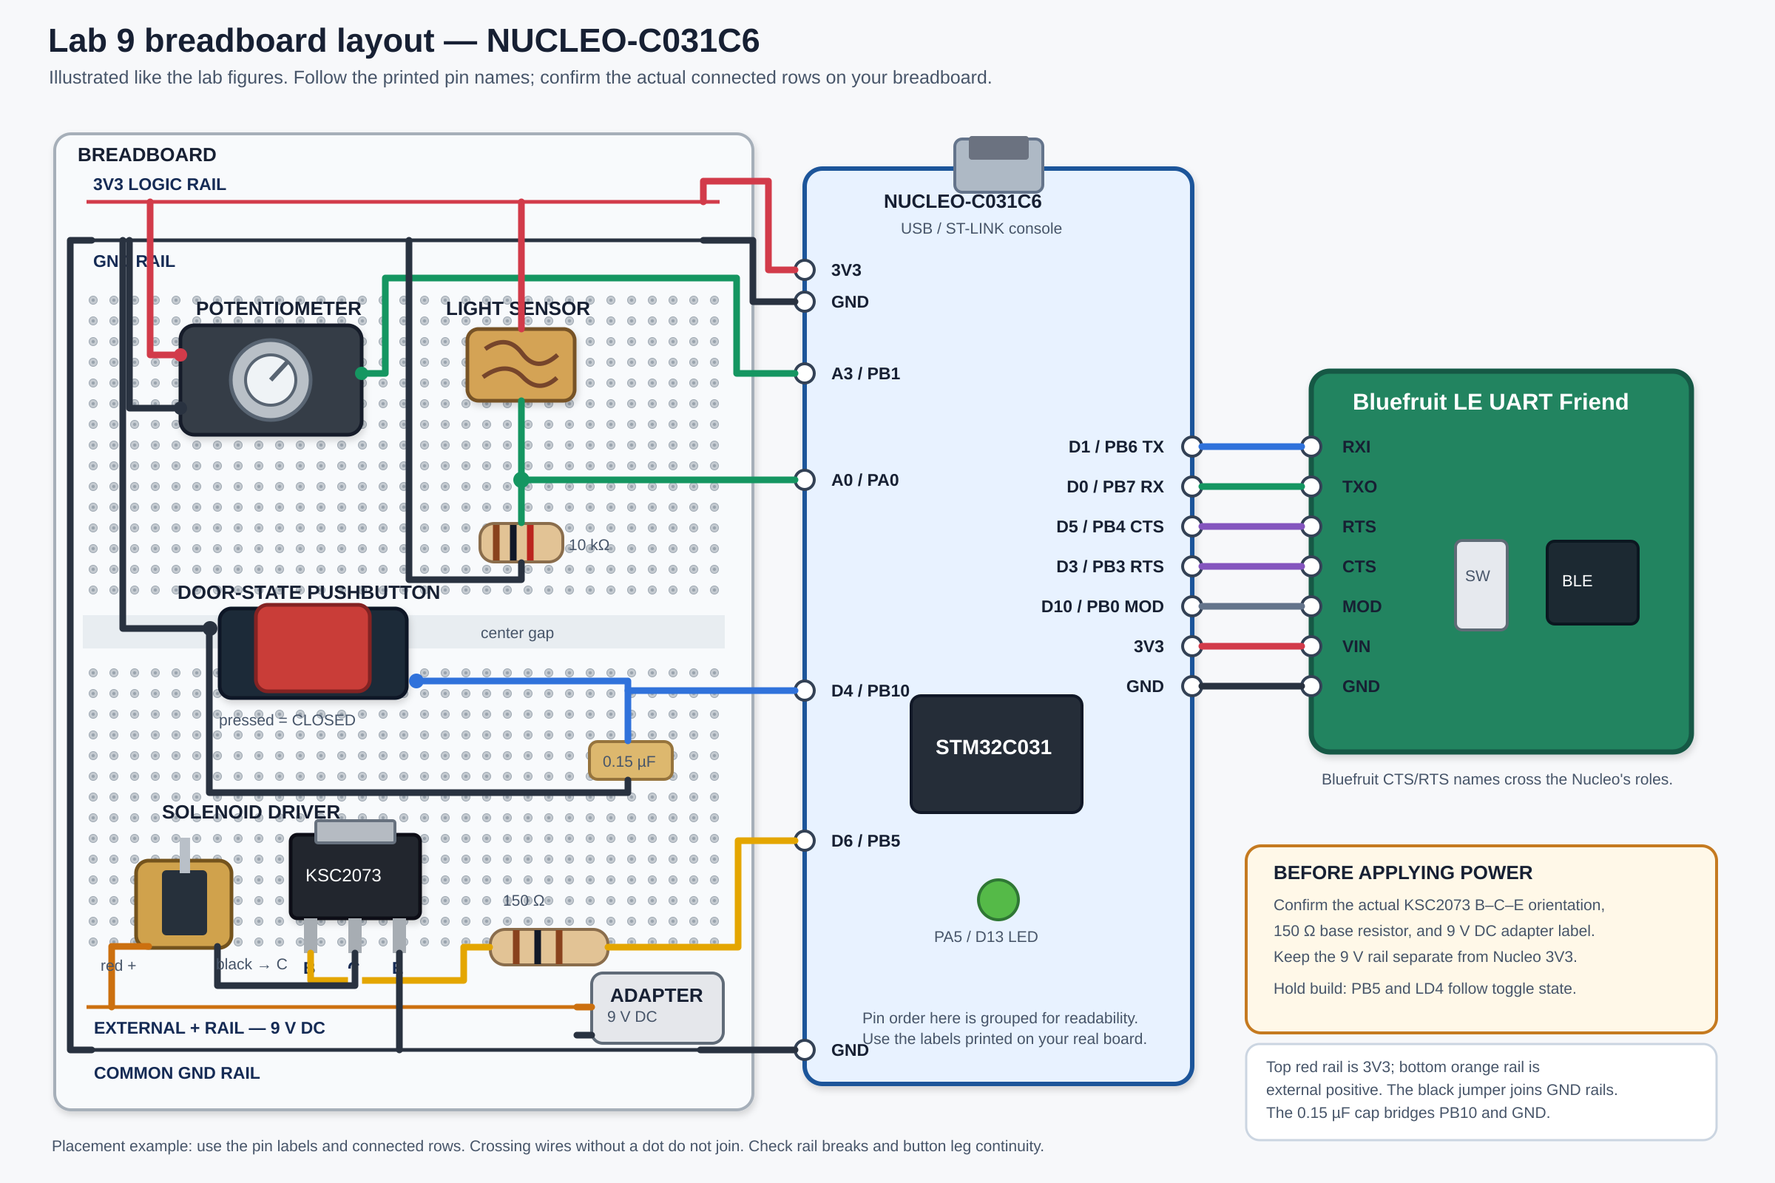
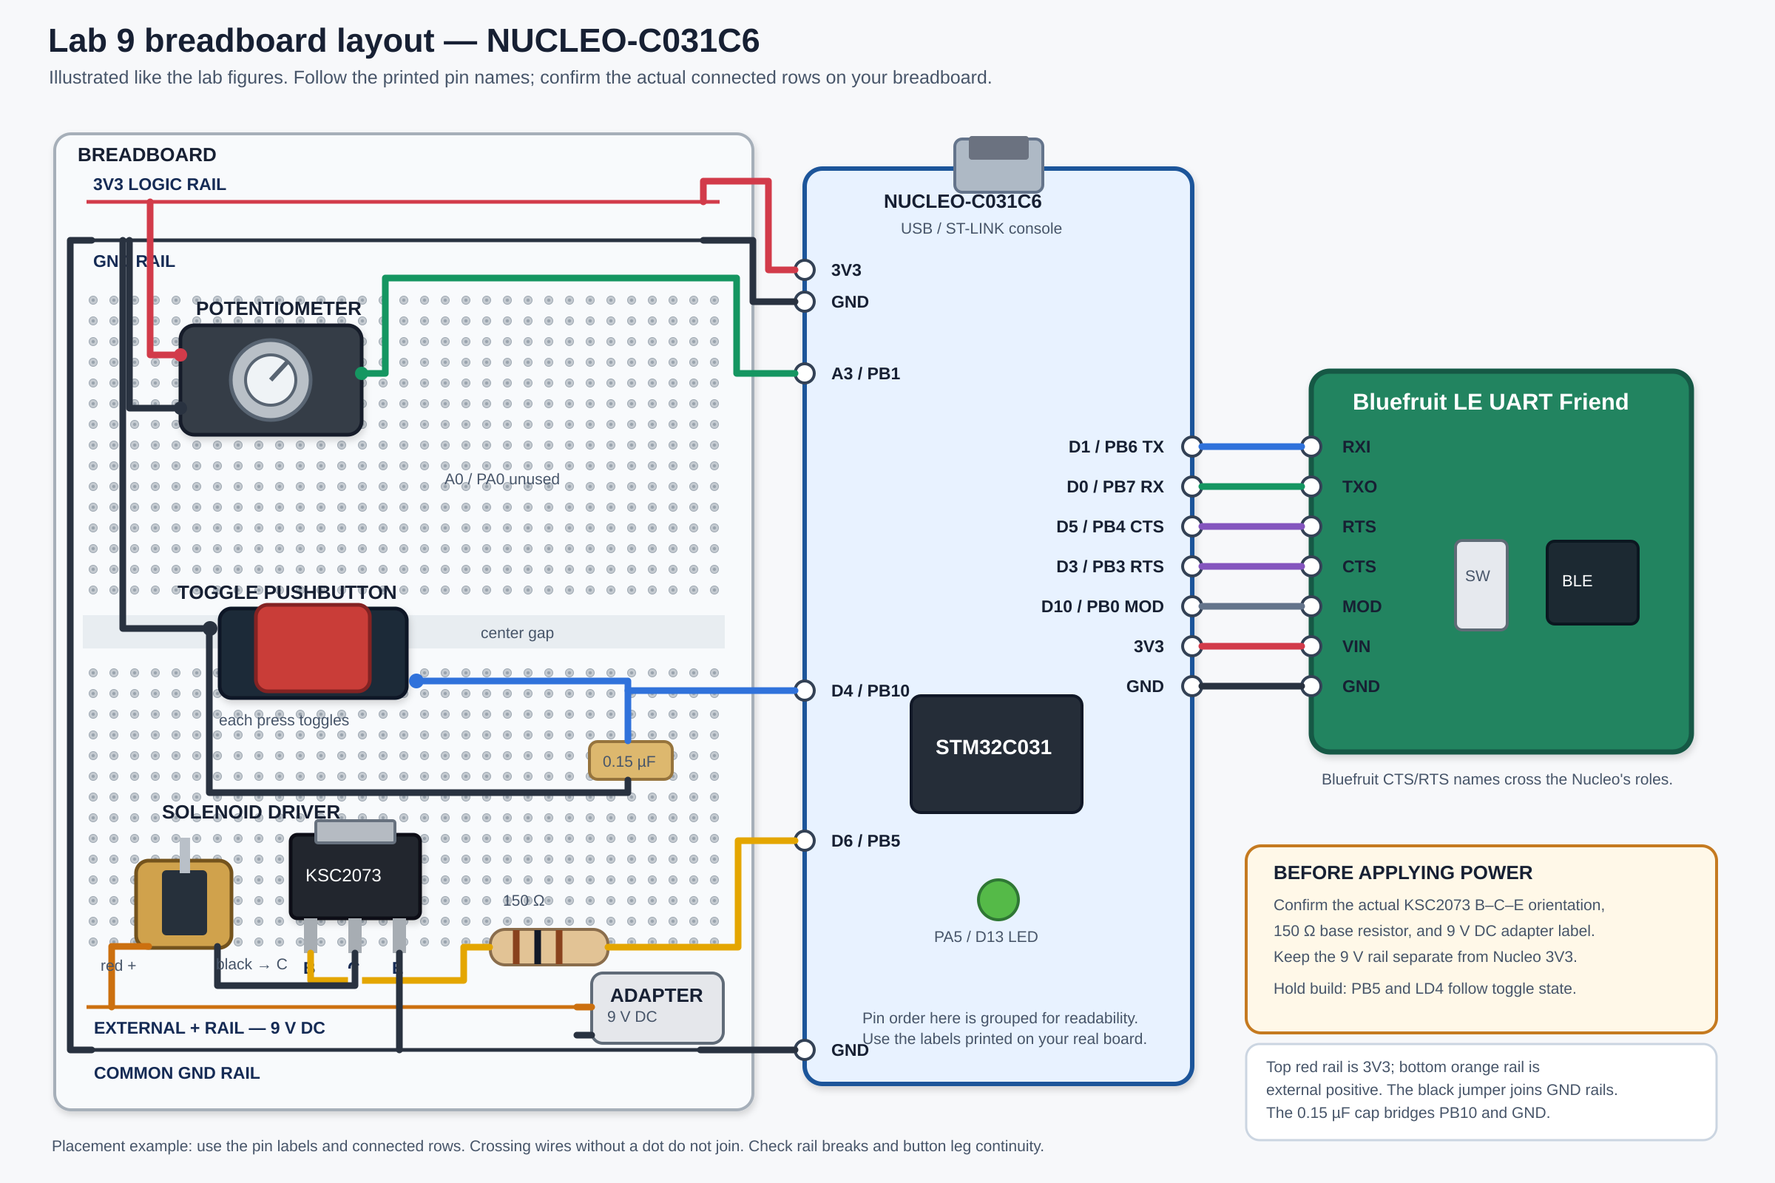
Remove photoresistor from Lab9 prototype

Changed region(s): [[0.2188, 0.1875, 0.4688, 0.5], [0.0938, 0.4688, 0.2188, 0.5312], [0.125, 0.5938, 0.1875, 0.625]]

diff --git a/tests/test_safe_logic.c b/tests/test_safe_logic.c
@@ -8,31 +8,30 @@ int main(void) {
     assert(!state.unlock_requested);
 
     /* Inputs already held or high at boot do not request an unlock. */
-    SampleSafe(&state, 20, true, 4095, 100);
-    SampleSafe(&state, 60, true, 4095, 100);
-    assert(!state.unlock_requested);
-    assert(state.light == 100);
-
-    SampleSafe(&state, 80, false, 4095, 100);
-    SampleSafe(&state, 120, false, 4095, 100);
-    SampleSafe(&state, 140, true, 4095, 100);
-    SampleSafe(&state, 180, true, 4095, 100);
-    assert(state.unlock_requested);
-    SampleSafe(&state, 220, true, 4095, 100);
-    assert(state.unlock_requested);
-    SampleSafe(&state, 240, false, 4095, 100);
-    SampleSafe(&state, 280, false, 4095, 100);
-    SampleSafe(&state, 300, true, 4095, 100);
-    SampleSafe(&state, 340, true, 4095, 100);
+    SampleSafe(&state, 20, true, 4095);
+    SampleSafe(&state, 60, true, 4095);
     assert(!state.unlock_requested);
 
-    SampleSafe(&state, 360, true, 0, 100);
-    SampleSafe(&state, 380, true, 4095, 100);
+    SampleSafe(&state, 80, false, 4095);
+    SampleSafe(&state, 120, false, 4095);
+    SampleSafe(&state, 140, true, 4095);
+    SampleSafe(&state, 180, true, 4095);
     assert(state.unlock_requested);
-    SampleSafe(&state, 400, true, 4095, 100);
+    SampleSafe(&state, 220, true, 4095);
     assert(state.unlock_requested);
-    SampleSafe(&state, 420, true, 0, 100);
-    SampleSafe(&state, 440, true, 4095, 100);
+    SampleSafe(&state, 240, false, 4095);
+    SampleSafe(&state, 280, false, 4095);
+    SampleSafe(&state, 300, true, 4095);
+    SampleSafe(&state, 340, true, 4095);
+    assert(!state.unlock_requested);
+
+    SampleSafe(&state, 360, true, 0);
+    SampleSafe(&state, 380, true, 4095);
+    assert(state.unlock_requested);
+    SampleSafe(&state, 400, true, 4095);
+    assert(state.unlock_requested);
+    SampleSafe(&state, 420, true, 0);
+    SampleSafe(&state, 440, true, 4095);
     assert(!state.unlock_requested);
 
     assert(ProcessSafeCommand(&state, 'U'));
@@ -45,11 +44,11 @@ int main(void) {
     assert(!ProcessSafeCommand(&state, '?'));
 
     /* A pot turn and button press in one sample produce one toggle. */
-    SampleSafe(&state, 460, false, 0, 100);
-    SampleSafe(&state, 500, false, 0, 100);
-    SampleSafe(&state, 520, true, 0, 100);
+    SampleSafe(&state, 460, false, 0);
+    SampleSafe(&state, 500, false, 0);
+    SampleSafe(&state, 520, true, 0);
     assert(!state.unlock_requested);
-    SampleSafe(&state, 560, true, 4095, 100);
+    SampleSafe(&state, 560, true, 4095);
     assert(state.unlock_requested);
 
     LockSafe(&state);

diff --git a/Src/Lab9Prototype.c b/Src/Lab9Prototype.c
@@ -2,7 +2,6 @@
  * ENGS 28 Lab 9 breadboard prototype
  *
  * A3 / PB1: potentiometer wiper, ADC channel 18
- * A0 / PA0: light divider, ADC channel 0
  * D4 / PB10: active-low toggle pushbutton with pull-up
  * D6 / PB5: solenoid transistor drive
  * D13 / PA5: on-board user LED
@@ -22,7 +21,6 @@
 #include "SafeLogic.h"
 
 #define POT_CHANNEL 18U
-#define LIGHT_CHANNEL 0U
 #define BUTTON_BITNUM 10U
 #define BUTTON_BITMASK (1U << BUTTON_BITNUM)
 #define SOLENOID_BITNUM 5U
@@ -68,7 +66,7 @@ static void ApplyOutputs(const SafeState *state) {
 
 static int ReadADC(unsigned int channel) {
     adc_setChannel(channel);
-    /* Lab 8 sensor check discarded the first reading after channel change. */
+    /* Lab 8 sensor check discarded the first ADC reading. */
     if (adc_getValue() < 0) {
         return -1;
     }
@@ -77,10 +75,9 @@ static int ReadADC(unsigned int channel) {
 
 static void SendStatus(const SafeState *state) {
     char line[STATUS_LINE_CAPACITY] = {0};
-    (void)snprintf(line, sizeof(line), "POT=%u BUTTON=%s LIGHT=%u REQUEST=%s SOLENOID=%s\r\n",
+    (void)snprintf(line, sizeof(line), "POT=%u BUTTON=%s REQUEST=%s SOLENOID=%s\r\n",
                    (unsigned int)state->pot,
                    state->button_pressed ? "PRESSED" : "RELEASED",
-                   (unsigned int)state->light,
                    state->unlock_requested ? "UNLOCK" : "LOCK",
 #if SOLENOID_HOLD_ENABLED > 0U
                    state->unlock_requested ? "ON" : "OFF"
@@ -133,12 +130,11 @@ int main(void) {
         if ((uint32_t)(now - last_sample) >= SAMPLE_MS) {
             last_sample = now;
             int pot = ReadADC(POT_CHANNEL);
-            int light = ReadADC(LIGHT_CHANNEL);
-            if (pot < 0 || light < 0) {
+            if (pot < 0) {
                 LockSafe(&state);
             } else {
                 bool pressed = (GPIOB->IDR & BUTTON_BITMASK) == 0U;
-                SampleSafe(&state, now, pressed, (uint16_t)pot, (uint16_t)light);
+                SampleSafe(&state, now, pressed, (uint16_t)pot);
             }
             ApplyOutputs(&state);
         }

diff --git a/Library/ADC.c b/Library/ADC.c
@@ -68,11 +68,9 @@ void adc_setChannel(unsigned int chNum) {
 }
 
 void adc_init(void) {
-    // Turn on the GPIO and ADC clocks, then make A0, A1 and A3 analog inputs.
-    RCC->IOPENR = RCC->IOPENR | RCC_IOPENR_GPIOAEN | RCC_IOPENR_GPIOBEN;
+    // Turn on the GPIO and ADC clocks, then make A3 an analog input.
+    RCC->IOPENR = RCC->IOPENR | RCC_IOPENR_GPIOBEN;
     /* GPIO analog mode is 11 in each pin's two mode bits. */
-    GPIOA->MODER = GPIOA->MODER | GPIO_MODER_MODE0_Msk;
-    GPIOA->MODER = GPIOA->MODER | GPIO_MODER_MODE1_Msk;
     GPIOB->MODER = GPIOB->MODER | GPIO_MODER_MODE1_Msk;
     RCC->APBENR2 = RCC->APBENR2 | RCC_APBENR2_ADCEN;
 
@@ -94,7 +92,7 @@ void adc_init(void) {
     // Rearm the ADC after long gaps between one-second readings.
     ADC1->CFGR2 = ADC1->CFGR2 | ADC_CFGR2_LFTRIG;
     adc_setWidth(0);
-    adc_setChannel(0);
+    adc_setChannel(18);
     ADC1->ISR = ADC_ISR_ADRDY;
     ADC1->CR = ADC1->CR | ADC_CR_ADEN;
     if (!wait_for_set(&ADC1->ISR, ADC_ISR_ADRDY)) {

diff --git a/Library/ADC.h b/Library/ADC.h
@@ -1,11 +1,11 @@
 #ifndef LAB5_ADC_H
 #define LAB5_ADC_H
 
-/* Configures PA0/A0, PA1/A1 and PB1/A3 as analog inputs; starts at channel 0, 12 bits. */
+/* Configures PB1/A3 as an analog input; starts at channel 18, 12 bits. */
 void adc_init(void);
 
 /* Selects ADC channel 0..19 for the next conversion; invalid channels are ignored.
-   The caller configures any external GPIO other than PA0/PA1/PB1 as analog. */
+   The caller configures any external GPIO other than PB1 as analog. */
 void adc_setChannel(unsigned int chNum);
 
 /* Resolution codes: 0=12 bits, 1=10 bits, 2=8 bits, 3=6 bits.

diff --git a/Src/SafeLogic.h b/Src/SafeLogic.h
@@ -12,12 +12,10 @@ typedef struct {
     bool pot_armed;
     uint32_t button_changed_at;
     uint16_t pot;
-    uint16_t light;
 } SafeState;
 
 void InitializeSafe(SafeState *state, uint32_t now);
-void SampleSafe(SafeState *state, uint32_t now, bool button_pressed,
-                uint16_t pot, uint16_t light);
+void SampleSafe(SafeState *state, uint32_t now, bool button_pressed, uint16_t pot);
 bool ProcessSafeCommand(SafeState *state, char command);
 void LockSafe(SafeState *state);
 

diff --git a/Src/SafeLogic.c b/Src/SafeLogic.c
@@ -16,11 +16,9 @@ void LockSafe(SafeState *state) {
     state->unlock_requested = false;
 }
 
-void SampleSafe(SafeState *state, uint32_t now, bool button_pressed,
-                uint16_t pot, uint16_t light) {
+void SampleSafe(SafeState *state, uint32_t now, bool button_pressed, uint16_t pot) {
     bool toggle = false;
     state->pot = pot;
-    state->light = light;
 
     if (!state->button_initialized) {
         /* An already-held button at boot is not a new press. */

diff --git a/README.md b/README.md
@@ -32,7 +32,6 @@ Share the [group I/O pinout](docs/group_pinout.md) for the final-project check-i
 | Part | Arduino pin | MCU pin | Configuration |
 |---|---|---|---|
 | Pot wiper | A3 | PB1 | ADC channel 18; outer legs 3V3 and GND |
-| Light divider | A0 | PA0 | ADC channel 0; LDR to 3V3, 10 kΩ to GND |
 | Toggle pushbutton | D4 | PB10 | Input with internal pull-up; each debounced press toggles the request |
 | Driver control | D6 | PB5 | Output to transistor base **through resistor**; HIGH for unlock in the hold build, LOW for lock |
 | User LED | D13 | PA5 | Output; stays lit while unlock is requested |
@@ -43,7 +42,7 @@ Share the [group I/O pinout](docs/group_pinout.md) for the final-project check-i
 
 The button is an active-low **pushbutton**. Lab 3 specifies a debouncing capacitor; use the course's nonpolarized 0.15 µF capacitor **between PB10/D4 and GND, in parallel with the button**, as shown on the [complete diagram](docs/full_breadboard_wiring.png). The firmware also debounces the input in software. On a four-leg tactile button, some legs are internally joined; use continuity mode to select a pair that is open when released and closed when pressed. Never put the button directly across 3V3 and GND.
 
-Each debounced button press toggles the request; releasing the button does nothing. The pot must first enter its low region (ADC 0–1228) and then move high (2867–4095) to toggle once. Holding it high does not repeat. The raw light value is for observation only. BLE/USB `U` also toggles; `L` forces a lock request; `?` sends status. The phone receives `POT`, `BUTTON`, `LIGHT`, `REQUEST`, and `SOLENOID` each second. In the hold build, `SOLENOID=ON/OFF` reports the commanded output state, not a measured latch position. The advertised name is `ENGS28-Safe-Kensa` if the startup AT sequence succeeds.
+Each debounced button press toggles the request; releasing the button does nothing. The pot must first enter its low region (ADC 0–1228) and then move high (2867–4095) to toggle once. Holding it high does not repeat. BLE/USB `U` also toggles; `L` forces a lock request; `?` sends status. The phone receives `POT`, `BUTTON`, `REQUEST`, and `SOLENOID` each second. In the hold build, `SOLENOID=ON/OFF` reports the commanded output state, not a measured latch position. A0/PA0 is unused; disconnect the photoresistor and its 10 kΩ divider resistor. The advertised name is `ENGS28-Safe-Kensa` if the startup AT sequence succeeds.
 
 The tested Lab 3 driver wiring used a 9 V DC adapter: barrel board `VIN` to solenoid red, solenoid black to KSC2073 collector, emitter to shared GND, and D6/PB5 through 150 Ω to the base. The barrel board's `5V` pin is unused for the solenoid. A 300 ms pulse moved the latch in the earlier powered bench tests. The hold build has been flashed and checked over USB with the 9 V adapter unplugged; powered sustained operation on this board has not yet been observed. The LED is useful feedback; the Lab 9 handout does not establish that it qualifies as the required second actuator for the final graded project.
 
@@ -52,14 +51,14 @@ The tested Lab 3 driver wiring used a 9 V DC adapter: barrel board `VIN` to sole
 | Source | Origin / change |
 |---|---|
 | `sysinit.c`, `uart.c`, board headers/startup | Copied from the local Lab 8 class project; `uart.c` is the supplied course UART driver plus the Day 17 `uart2_RxAvail()` addition |
-| `Library/ADC.*` | Reused from the tested Lab 8 project; extends the course `ADCPot.c` example to handle both ADC channels, calibration, and bounded waits |
+| `Library/ADC.*` | Reused from the tested Lab 8 project; follows the course `ADCPot.c` example for the pot channel, with calibration and bounded waits |
 | `Src/SafeLogic.c` | Lab 3-style button debounce on PB10, plus the local and BLE toggle logic |
-| `Src/Lab9Prototype.c` | Lab 3 PB5 output pattern, Lab 4 PB1 ADC, Lab 8 PA0 ADC read pattern, new main loop; the hold build sustains PB5 HIGH until a lock request, matching the supplied friend's `CodingChallenge.c` output behavior |
+| `Src/Lab9Prototype.c` | Lab 3 PB5 output pattern, Lab 4 PB1 ADC, new main loop; the hold build sustains PB5 HIGH until a lock request, matching the supplied friend's `CodingChallenge.c` output behavior |
 | `Library/uart1.c` | New USART1 driver following the class USART2 driver and Day 17 slides; RTS/CTS added |
 | `Src/Passthrough.c` | Day 17 passthrough exercise adapted for nonblocking USART1 transmit |
 | `Library/ble.c` | Lab 9 section 4.4 startup sequence; bounded command waits and nonblocking data queue |
 
-The course source review checked the supplied `uart.c`, `button.c`, `ADCPot.c`, Day 17 BLE slides, and Lab 9 handout. The handouts and slides are not bundled here. They contain no supplied USART1 driver, BLE startup function, or two-channel ADC library; the Day 17 slides and Lab 9 handout direct students to write the USART1 and BLE parts. The Bluefruit [manufacturer pinout](https://learn.adafruit.com/introducing-the-adafruit-bluefruit-le-uart-friend/pinouts) confirms crossed RTS/CTS and MOD level; its [GAP command documentation](https://learn.adafruit.com/introducing-the-adafruit-bluefruit-le-uart-friend/ble-gap) confirms the name syntax and reset.
+The course source review checked the supplied `uart.c`, `button.c`, `ADCPot.c`, Day 17 BLE slides, and Lab 9 handout. The handouts and slides are not bundled here. They contain no supplied USART1 driver or BLE startup function; the Day 17 slides and Lab 9 handout direct students to write the USART1 and BLE parts. The Bluefruit [manufacturer pinout](https://learn.adafruit.com/introducing-the-adafruit-bluefruit-le-uart-friend/pinouts) confirms crossed RTS/CTS and MOD level; its [GAP command documentation](https://learn.adafruit.com/introducing-the-adafruit-bluefruit-le-uart-friend/ble-gap) confirms the name syntax and reset.
 
 The `course/chipheaders` support files and ST-generated startup/linker files retain their upstream copyright and license notices. No project-wide license is specified for the class-derived code.
 
@@ -76,5 +75,7 @@ The following checks used the earlier 300 ms pulse firmware on 2026-11-12:
 On 2026-11-15, the coil-disabled toggle firmware passed `make test` and `make all`, flashed to the NUCLEO-C031C6 with readback verification, and reported `SOLENOID=DISABLED` over USB. Two USB `U` commands changed `REQUEST=LOCK → UNLOCK → LOCK` while the button was released. The student confirmed LD4 alternated with button and pot input. The 9 V adapter remained unplugged.
 
 Later on 2026-11-15, the hold build passed `make test` and `make hold`, was flashed with readback verification, and reported `LOCK/OFF → UNLOCK/ON → LOCK/OFF` for USB `L`, `U`, `L`. Debugger reads confirmed PB5 HIGH then LOW. The 9 V adapter remained unplugged, so physical latch motion with this build is pending.
+
+After the photoresistor was removed from the design, `make test`, `make hold`, and `make all` passed. The updated hold image was flashed with readback verification. USB status reported `POT`, `BUTTON`, `REQUEST`, and `SOLENOID`, with no `LIGHT` field, while the board remained locked/off.
 
 `prototype_progress.md` holds the detailed test record and remaining measurements.

diff --git a/docs/group_pinout.md b/docs/group_pinout.md
@@ -9,7 +9,6 @@ Directions below are from the **Nucleo's** point of view. `D*` and `A*` are the 
 | Nucleo header | MCU pin | Direction / peripheral | Connected part and purpose |
 | --- | --- | --- | --- |
 | A3 | PB1 | Analog input, ADC1 channel 18 | Potentiometer wiper. The other two pot terminals go to 3V3 and GND. A low-to-high turn toggles the lock request once. |
-| A0 | PA0 | Analog input, ADC1 channel 0 | LDR/10 kΩ divider midpoint. LDR goes to 3V3; 10 kΩ goes to GND. Light is reported as telemetry and does not currently control the lock. |
 | D4 | PB10 | Digital input with internal pull-up | Pushbutton to GND. Each debounced press toggles the request. A 0.15 µF capacitor is across PB10 and GND. |
 | D6 | PB5 | Digital output | Solenoid driver control through a 150 Ω resistor to the KSC2073 base. The hold build drives PB5 HIGH for unlock and LOW for lock; the coil is never connected directly to PB5. |
 | D13 | PA5 | Digital output | On-board LD4 user LED; HIGH while unlock is requested. No external LED wire is needed. |
@@ -22,16 +21,16 @@ Directions below are from the **Nucleo's** point of view. `D*` and `A*` are the 
 
 ## Power and driver connections
 
-- Nucleo **3V3** supplies the pot, LDR divider, and Bluefruit **VIN**. Nucleo GND and Bluefruit GND share the logic ground.
+- Nucleo **3V3** supplies the pot and Bluefruit **VIN**. Nucleo GND and Bluefruit GND share the logic ground. **A0/PA0 is unused**; disconnect the photoresistor and its 10 kΩ divider resistor.
 - The Lab 3 **9 V DC** wall adapter plugs into the barrel-jack board. Its pin labeled **VIN** goes to the solenoid's **red** wire. Its **GND** joins Nucleo GND and the KSC2073 emitter. The jack board's **5V** pin is unused for the solenoid.
 - The solenoid's **black** wire goes to the KSC2073 collector. Nucleo D6/PB5 goes through **150 Ω** to the KSC2073 base. Keep the 9 V positive rail separate from Nucleo 3V3 and all MCU pins.
 
 ## How the firmware uses the I/O
 
-- The main loop polls the pot ADC, light ADC, and button every **20 ms**. The button uses a **25 ms** software debounce in addition to its capacitor. Each press toggles; release does nothing.
+- The main loop polls the pot ADC and button every **20 ms**. The button uses a **25 ms** software debounce in addition to its capacitor. Each press toggles; release does nothing.
 - The pot must first read low (ADC **0–1228**) to arm. Moving it high (ADC **2867–4095**) toggles once. Holding it high does not repeat.
 - Bluefruit uses USART1 at **9600 baud** with RTS/CTS flow control. The USB console uses USART2 at **9600 baud**. Both UARTs are polled in the main loop. Wireless or USB `U` toggles; `L` forces a lock request; `?` requests status.
-- A **1 ms SysTick interrupt** supplies timing. Status (`POT`, `BUTTON`, `LIGHT`, `REQUEST`, `SOLENOID`) is sent over BLE every **1 second**. No ADC, button, or UART interrupt is used in this version.
+- A **1 ms SysTick interrupt** supplies timing. Status (`POT`, `BUTTON`, `REQUEST`, `SOLENOID`) is sent over BLE every **1 second**. No ADC, button, or UART interrupt is used in this version.
 - `make hold` builds the version currently flashed on the board. `REQUEST=UNLOCK` turns LD4 and PB5 on until the next toggle or `L`; `SOLENOID=ON/OFF` reports the commanded output, not a latch-position measurement. `make all` builds a separate coil-disabled version for unpowered bench checks.
 
 Source: [`Src/Lab9Prototype.c`](../Src/Lab9Prototype.c), [`Src/SafeLogic.c`](../Src/SafeLogic.c), [`Library/uart1.c`](../Library/uart1.c), and the [bench test record](../prototype_progress.md).

diff --git a/docs/paper_design_draft.md b/docs/paper_design_draft.md
@@ -21,14 +21,14 @@ The complete pin list and configuration are in the project [README](../README.md
 
 ## Peripherals and software plan
 
-Peripherals: ADC1 channels 18 and 0, USART1 at 9600 baud with hardware RTS/CTS, USART2 at 9600 baud for the USB console, GPIO for PB10/PB5/PA5/PB0, and the course SysTick millisecond helper. The current version polls UART and ADC; SysTick is the only interrupt. The Lab 9 handout gives one additional point for an interrupt-driven UART driver, which can be added after polling works on hardware.
+Peripherals: ADC1 channel 18, USART1 at 9600 baud with hardware RTS/CTS, USART2 at 9600 baud for the USB console, GPIO for PB10/PB5/PA5/PB0, and the course SysTick millisecond helper. The current version polls UART and ADC; SysTick is the only interrupt. The Lab 9 handout gives one additional point for an interrupt-driven UART driver, which can be added after polling works on hardware.
 
 ```text
 Boot: PB5 off, LED off; configure GPIO and ADC; initialize USART2 and USART1.
       Put Bluefruit in CMD mode, send factory reset, device name, ATZ;
       wait for bounded responses, then return to UART mode.
 Repeat:
-      Every 20 ms: read pot and LDR; debounce the pushbutton;
+      Every 20 ms: read pot; debounce the pushbutton;
                    toggle on a new button press or a low-to-high pot turn.
       If a BLE or USB character is waiting: U toggles, L requests lock,
                  and ? returns status.

diff --git a/prototype_progress.md b/prototype_progress.md
@@ -1,5 +1,11 @@
 # Prototype progress
 
+## 2026-11-15 photoresistor removal
+
+- The group decided not to use the photoresistor. The firmware now samples only the potentiometer on A3/PB1, no longer configures A0/PA0 for ADC, and omits `LIGHT` from USB/BLE status. The lock inputs remain the pushbutton, pot gesture, and BLE/USB `U` command.
+- A0/PA0 and the photoresistor's 10 kΩ divider resistor should be disconnected from the breadboard. Earlier LDR measurements below describe the previous build.
+- `make test`, `make hold`, and `make all` passed. The updated hold build was flashed to the NUCLEO-C031C6 with readback verification. A USB `?` status line showed `POT=4095 BUTTON=RELEASED REQUEST=LOCK SOLENOID=OFF` with no `LIGHT` field. The board was left locked/off; no powered solenoid test was performed for this change.
+
 ## 2026-11-15 sustained toggle build
 
 - Reviewed `/home/kensa/Downloads/codethatworks/CodingChallenge.c`. Its solenoid output uses D6/PB5 held HIGH while `Open` is true and LOW while false; it has no PWM or pulse timer. Its D5/PB4 button wiring cannot be copied because Lab 9 assigns PB4 to Bluefruit CTS. The Lab 9 output branch already implemented the held PB5 behavior behind `SOLENOID_HOLD_ENABLED`; `make hold` now builds it explicitly.
